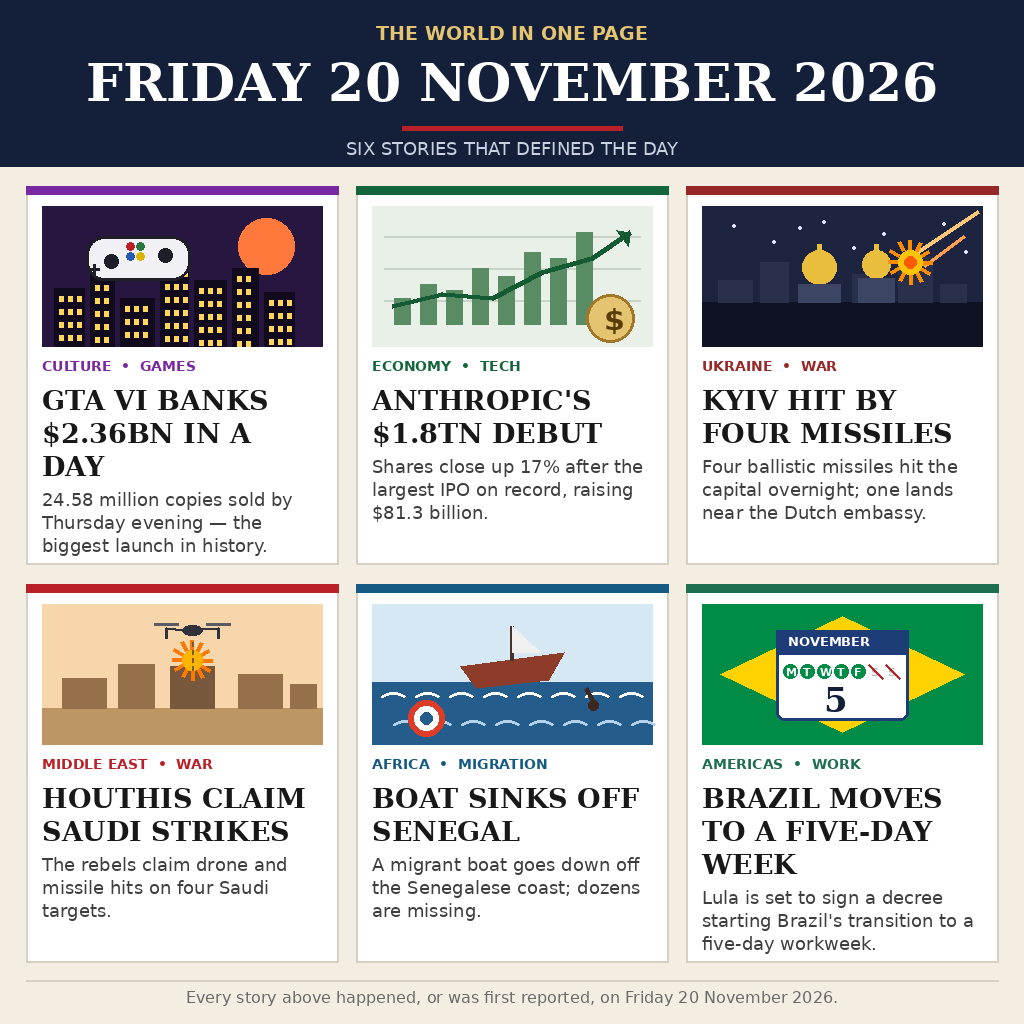
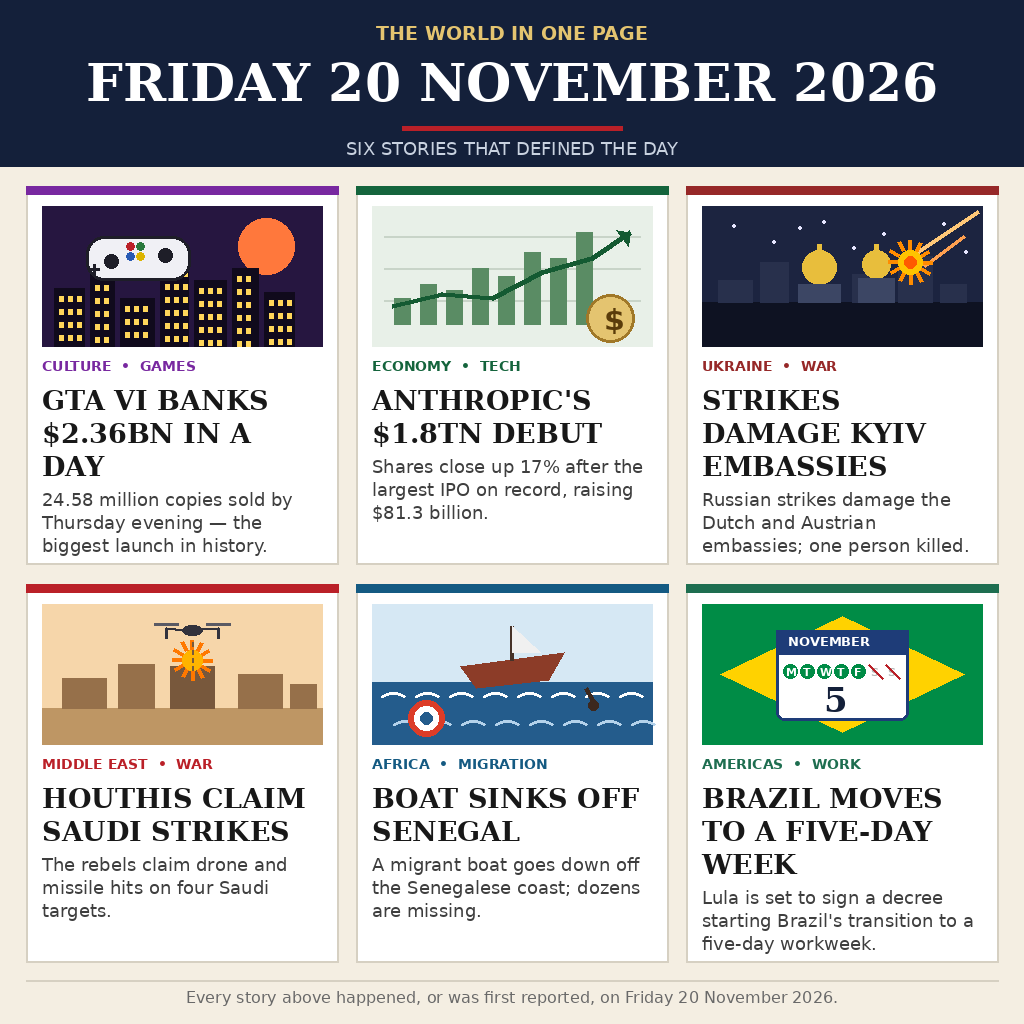
Fix Kyiv panel to verified facts: strikes damaged Dutch and Austrian embassies

Changed region(s): [[0.6875, 0.375, 0.9375, 0.5625]]

diff --git a/draw.py b/draw.py
@@ -247,8 +247,8 @@ PANELS = [
     ("ECONOMY  •  TECH", (20, 100, 60), "ANTHROPIC'S $1.8TN DEBUT",
      "Shares close up 17% after the largest IPO on record, raising $81.3 billion.",
      icon_chart),
-    ("UKRAINE  •  WAR", (150, 40, 40), "KYIV HIT BY FOUR MISSILES",
-     "Four ballistic missiles hit the capital overnight; one lands near the Dutch embassy.",
+    ("UKRAINE  •  WAR", (150, 40, 40), "STRIKES DAMAGE KYIV EMBASSIES",
+     "Russian strikes damage the Dutch and Austrian embassies; one person killed.",
      icon_kyiv),
     ("MIDDLE EAST  •  WAR", (186, 32, 40), "HOUTHIS CLAIM SAUDI STRIKES",
      "The rebels claim drone and missile hits on four Saudi targets.",
